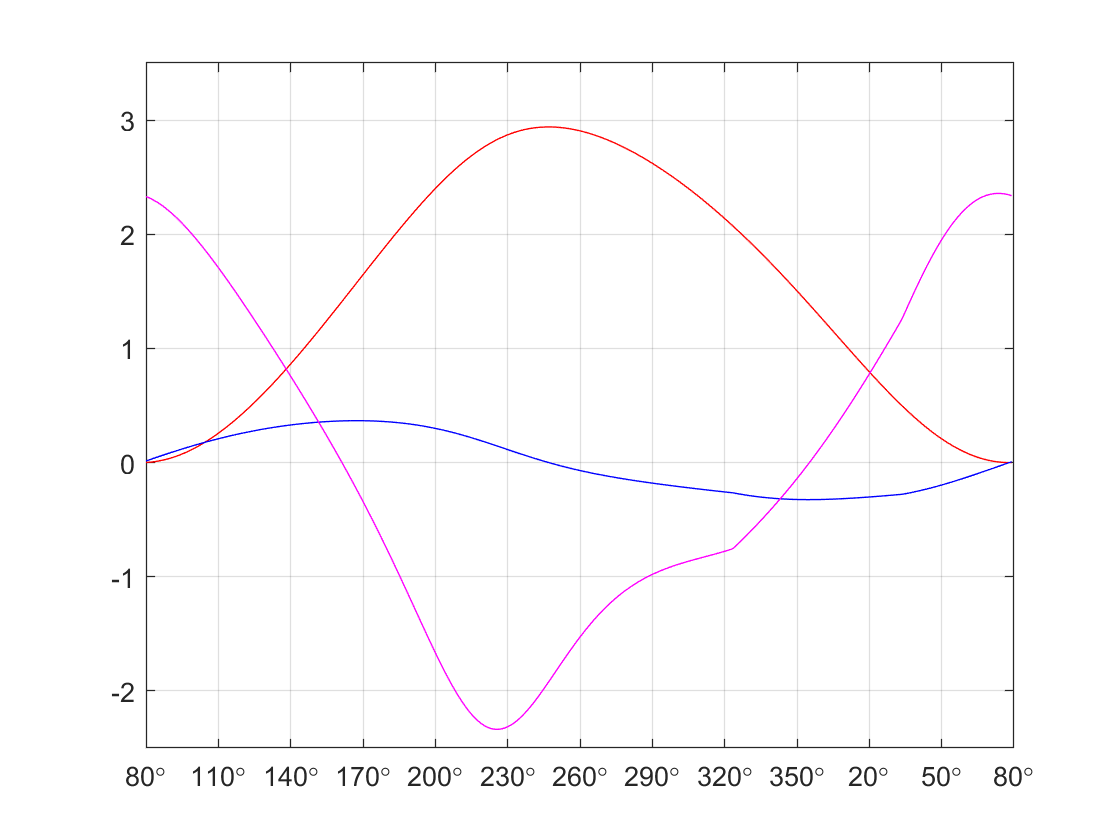
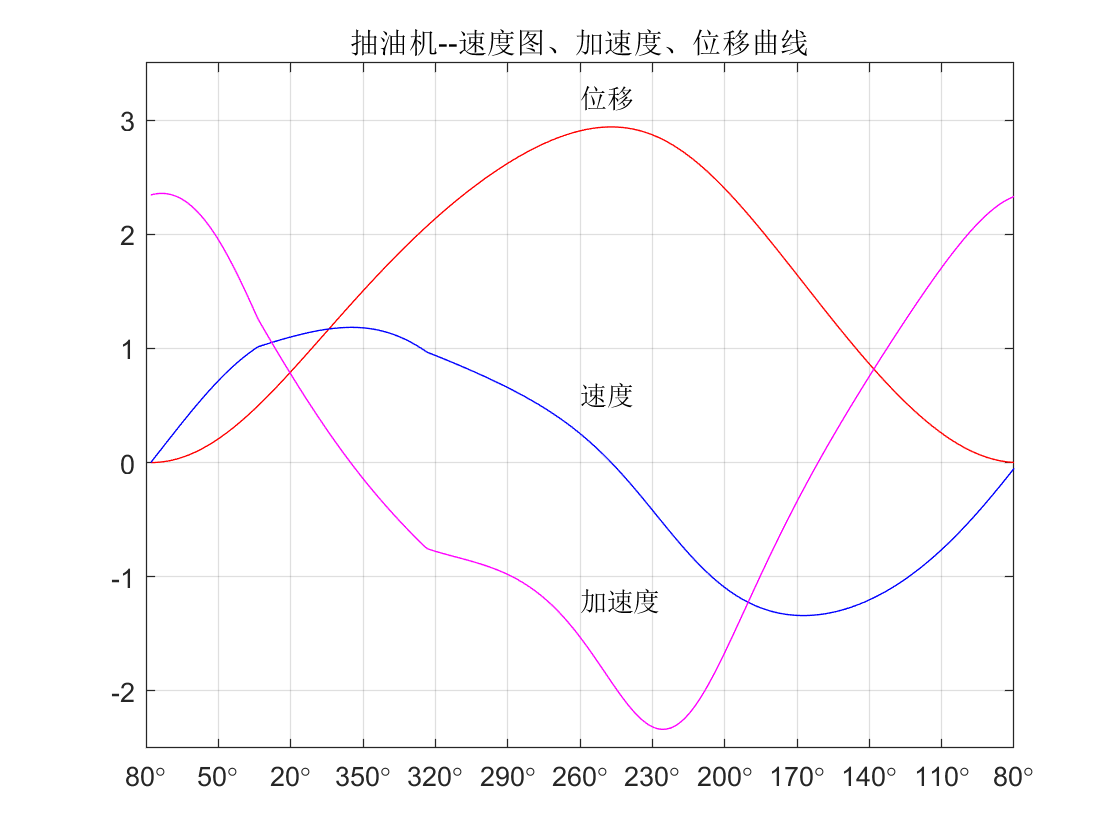
Site updated: 2021-07-06 17:43:53

diff --git a/2021/06/23/matlab/Matlab5/index.html b/2021/06/23/matlab/Matlab5/index.html
@@ -26,8 +26,9 @@
 <meta property="og:description" content="1、将数组中小于某个值得数全部加上某个值：1theta3(theta3(:)&lt;0)&#x3D;theta3((theta3(:)&lt;0))+360 2、规定图像范围，改变x轴标记：123axis([80,440,-2.5,3.5]);set(gca, &#39;Xtick&#39;,80:30:440)set(gca,&#39;Xticklabel&#39;,&amp;#123;&#39;80\">
 <meta property="og:locale" content="en_US">
 <meta property="og:image" content="http://tuoxiao.github.io/images/matlab/4-31.png">
+<meta property="og:image" content="http://tuoxiao.github.io/images/matlab/4-31.png">
 <meta property="article:published_time" content="2021-06-23T14:51:36.000Z">
-<meta property="article:modified_time" content="2021-06-24T15:12:29.639Z">
+<meta property="article:modified_time" content="2021-07-06T09:43:45.107Z">
 <meta property="article:author" content="John Doe">
 <meta property="article:tag" content="Matlab基础知识">
 <meta name="twitter:card" content="summary">
@@ -350,6 +351,8 @@
       
         <h2 id="1、将数组中小于某个值得数全部加上某个值："><a href="#1、将数组中小于某个值得数全部加上某个值：" class="headerlink" title="1、将数组中小于某个值得数全部加上某个值："></a>1、将数组中小于某个值得数全部加上某个值：</h2><figure class="highlight plain"><table><tr><td class="gutter"><pre><span class="line">1</span><br></pre></td><td class="code"><pre><span class="line">theta3(theta3(:)&lt;0)&#x3D;theta3((theta3(:)&lt;0))+360</span><br></pre></td></tr></table></figure>
 <h2 id="2、规定图像范围，改变x轴标记："><a href="#2、规定图像范围，改变x轴标记：" class="headerlink" title="2、规定图像范围，改变x轴标记："></a>2、规定图像范围，改变x轴标记：</h2><figure class="highlight plain"><table><tr><td class="gutter"><pre><span class="line">1</span><br><span class="line">2</span><br><span class="line">3</span><br></pre></td><td class="code"><pre><span class="line">axis([80,440,-2.5,3.5]);</span><br><span class="line">set(gca, &#39;Xtick&#39;,80:30:440)</span><br><span class="line">set(gca,&#39;Xticklabel&#39;,&#123;&#39;80\circ&#39;,&#39;110\circ&#39;,&#39;140\circ&#39;,&#39;170\circ&#39;,&#39;200\circ&#39;,&#39;230\circ&#39;,&#39;260\circ&#39;,&#39;290\circ&#39;,&#39;320\circ&#39;,&#39;350\circ&#39;,&#39;20\circ&#39;,&#39;50\circ&#39;,&#39;80\circ&#39;,&#125;)</span><br></pre></td></tr></table></figure>
+<p><img src="/images/matlab/4-31.png" alt="8-1"></p>
+<h2 id="3、将x作图曲线从大到小排列"><a href="#3、将x作图曲线从大到小排列" class="headerlink" title="3、将x作图曲线从大到小排列"></a>3、将x作图曲线从大到小排列</h2><figure class="highlight plain"><table><tr><td class="gutter"><pre><span class="line">1</span><br></pre></td><td class="code"><pre><span class="line">set(gca,&#39;XDir&#39;,&#39;reverse&#39;)</span><br></pre></td></tr></table></figure>
 <p><img src="/images/matlab/4-31.png" alt="8-1"></p>
 
       
